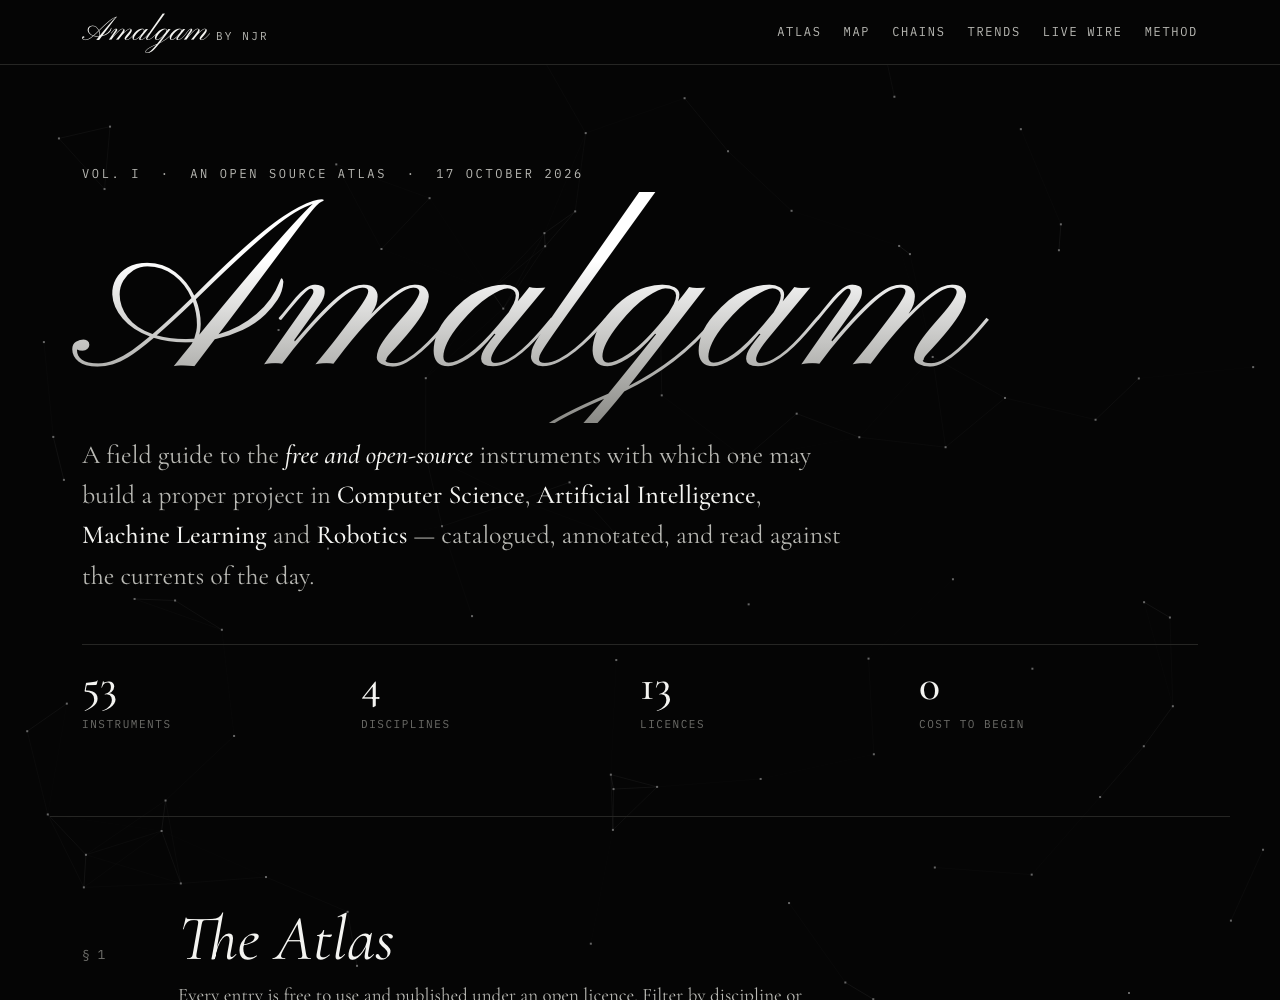
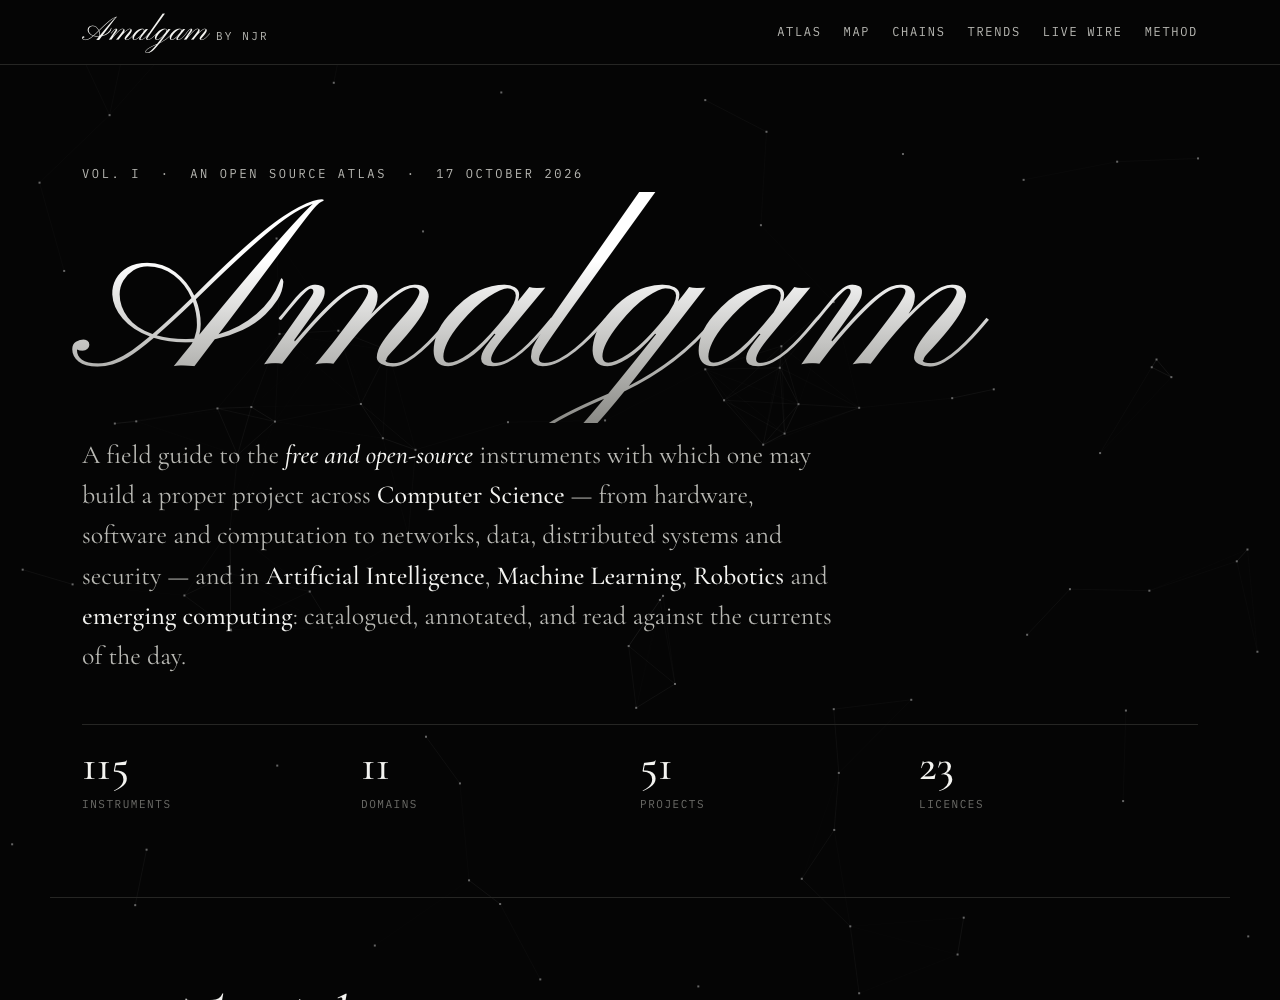
Update README for eleven domains and refresh screenshots

diff --git a/README.md b/README.md
@@ -2,14 +2,15 @@
 
 # Amalgam · by NJR
 
-### An Open Source Atlas for Computer Science, AI, Machine Learning & Robotics
+### An Open Source Atlas across eleven domains of Computer Science
 
 **🔗 Live site → [amalgambynjr.vercel.app](https://amalgambynjr.vercel.app)**
 
 [![Live](https://img.shields.io/badge/live-amalgambynjr.vercel.app-000000?style=flat-square&logo=vercel&logoColor=white)](https://amalgambynjr.vercel.app)
-![Tools](https://img.shields.io/badge/tools-53-000000?style=flat-square)
-![Projects](https://img.shields.io/badge/project%20recipes-20-000000?style=flat-square)
-![Chains](https://img.shields.io/badge/recommendation%20chains-8-000000?style=flat-square)
+![Domains](https://img.shields.io/badge/domains-11-000000?style=flat-square)
+![Tools](https://img.shields.io/badge/tools-115-000000?style=flat-square)
+![Projects](https://img.shields.io/badge/projects-51-000000?style=flat-square)
+![Chains](https://img.shields.io/badge/recommendation%20chains-18-000000?style=flat-square)
 ![Stack](https://img.shields.io/badge/stack-HTML%20·%20CSS%20·%20JS-000000?style=flat-square)
 
 ![Amalgam hero](docs/hero.png)
@@ -20,9 +21,11 @@
 
 ## About
 
-**Amalgam** is a research-style field guide to the **free and open-source tools** you can use to build a proper project in **Computer Science, Artificial Intelligence, Machine Learning and Robotics**, read alongside **current trends and live news**.
+**Amalgam** is a research-style field guide to the **free and open-source tools** you can use to build a proper project across **eleven domains of computer science**, read alongside **current trends and live news**:
 
-A real project is rarely one tool. It is an *amalgam*: ROS 2 braided with MuJoCo and PyTorch, or llama.cpp with LlamaIndex and PostgreSQL. This site catalogues those parts, shows which combinations produce which kinds of projects, and keeps you current with what is happening in the field.
+> Hardware · Software · Computation · Computer Networks · Data & Databases · Distributed Systems · Cybersecurity · Artificial Intelligence · Machine Learning · Robotics · Emerging Computing
+
+A real project is rarely one tool, or one domain. It is an *amalgam*: ROS 2 braided with MuJoCo and PyTorch, or an IoT monitor built from KiCad, Zephyr, MQTT and Grafana across hardware, networks and data. This site catalogues those parts, shows which combinations produce which kinds of projects, and keeps you current with what is happening in the field.
 
 The design is futuristic and monochrome, with black and white throughout and only the tool logos in colour, calligraphic script headings, a classical serif in the style of a research paper, and a drifting constellation that reacts to your cursor.
 
@@ -30,11 +33,11 @@ The design is futuristic and monochrome, with black and white throughout and onl
 
 | Section | What it does |
 |---|---|
-| **§1 The Atlas** | 53 open-source tools across four disciplines, each with its full-colour logo, purpose and licence. Filter by discipline or search by name, purpose or licence (e.g. `simulation`, `LLM`, `MIT`). |
-| **§2 The Amalgam Map** | An interactive **Venn diagram**: AI, ML and Robotics overlap on a Computer Science foundation, with two views. **By project** writes every project name inside its region; **by tool** places all 53 tool logos where they belong. Select a region to see its tools and projects, or a logo to see every project that tool appears in, the role it plays and why it is needed. |
-| **§3 Recommendation Chains** | Step-by-step tool chains for 8 projects (one per Venn region). Every link names the tool, the **role** it plays, **why the project needs it**, and an alternative. Reach a chain from its project in the map via *Follow the chain →*. |
-| **§4 Currents & Trends** | Key movements in the field (agentic AI and MCP, open-weight models, edge inference, vision-language-action robots, sim-to-real) and the tools they relate to. |
-| **§5 The Live Wire** | Headlines on AI, ML, Robotics and Open Source, fetched live from the Hacker News index each time the page loads. |
+| **§1 The Atlas** | 115 open-source tools, each with its full-colour logo, purpose, licence and every domain it serves. Filter by any of the 11 domains or search by name, purpose, domain or licence (e.g. `quantum`, `VPN`, `LLM`, `MIT`). |
+| **§2 The Amalgam Map** | An interactive **Venn diagram of any three domains**, picked by hand or from presets (*AI · ML · Robotics*, *Networks · Distributed · Security*, *Hardware · Software · Computation*…). Each project and tool is tagged with its domains, so it lands in the matching overlap. **By project** writes project names inside each region; **by tool** places tool logos there, with *+N more* when a region is crowded. Select a region to see its tools and projects, or a logo to see every project the tool appears in, the role it plays and why it is needed. |
+| **§3 Recommendation Chains** | Step-by-step tool chains for 18 projects spanning every domain. Every link names the tool, the **role** it plays, **why the project needs it**, and an alternative. Reach a chain from its project in the map via *Follow the chain →*. |
+| **§4 Currents & Trends** | Twelve movements across the field: agentic AI, open-weight models, post-quantum cryptography, open hardware and RISC-V, community forks after licence changes, in-process analytics, OpenTelemetry, quantum error correction and more, each linked to its tools. |
+| **§5 The Live Wire** | Headlines on AI, ML, Robotics, Security, Networking, Databases, Distributed Systems, Hardware, Quantum and Open Source, fetched live from the Hacker News index each time the page loads. |
 | **§6 Method** | How tools were chosen, and a reminder to verify licences before you build. |
 
 | By project | By tool |
@@ -54,18 +57,23 @@ The design is futuristic and monochrome, with black and white throughout and onl
 | 5 | Dispatch | ROS 2 | Robot middleware | Routes the goal to the navigation stack |
 | 6 | Move | Nav2 | Navigation | Drives to the location around obstacles |
 
-### Example recipes from the map
+### Example projects across the domains
 
-| Region | Project | Recipe |
+| Domains | Project | Recipe |
 |---|---|---|
-| AI | Private document assistant | Ollama + LlamaIndex + PostgreSQL + Qwen |
-| ML | Tabular prediction model | pandas + scikit-learn + XGBoost + MLflow |
-| Robotics | Autonomous mobile robot | ROS 2 + Nav2 + Gazebo |
-| AI ∩ ML | Fine-tune an open model | Transformers + PyTorch + OLMo + vLLM |
-| ML ∩ Robotics | Legged locomotion via RL | MuJoCo + JAX + Ray |
-| AI ∩ Robotics | Voice-commanded robot | Whisper + Ollama + ROS 2 + Nav2 |
+| Hardware ∩ Computation | Design and simulate a RISC-V core | Git + Verilator + Yosys + OpenROAD |
+| Hardware ∩ Networks ∩ Data | IoT environmental monitor | KiCad + Zephyr + PlatformIO + Mosquitto + PostgreSQL + Grafana |
+| Software ∩ Data ∩ Networks | Full-stack web app | TypeScript + React + Node.js + PostgreSQL + Caddy + Docker |
+| Computation ∩ Software | Formally verified algorithm | Lean 4 + Z3 + Rust |
+| Networks ∩ Computation | Network lab on a laptop | Mininet + Wireshark + ns-3 |
+| Data ∩ Distributed | Real-time analytics pipeline | Kafka + Spark + ClickHouse + Airflow + Grafana |
+| Distributed ∩ Networks ∩ Software | Observable microservices | Go + gRPC + Envoy + Kubernetes + OpenTelemetry + Prometheus + Grafana |
+| Security ∩ Networks | Home network intrusion detection | Linux + Zeek + Suricata + Wazuh + Grafana |
+| Security ∩ Software ∩ Distributed | Secure CI/CD pipeline | Git + Semgrep + Docker + Trivy + OpenBao |
+| AI ∩ Data | Private document assistant | Ollama + LlamaIndex + PostgreSQL + Qwen |
 | AI ∩ ML ∩ Robotics | Vision-language-action robot | LeRobot + PyTorch + Transformers + MuJoCo + ROS 2 |
-| Computer Science | Self-hosted deployment platform | Docker + Kubernetes + Grafana + Linux |
+| Emerging ∩ Computation | Quantum algorithms playground | Jupyter + Qiskit + Cirq + QuTiP |
+| Emerging ∩ ML ∩ Robotics | Spiking-network robot controller | snnTorch + Lava + ROS 2 + Gazebo |
 
 ## Tech stack
 
@@ -83,7 +91,7 @@ Plain **HTML, CSS and vanilla JavaScript**, with no framework and no build step.
 ```
 ├── index.html   # Page structure and sections
 ├── styles.css   # Monochrome, research-style design
-├── data.js      # Tools, Venn map recipes, chains, trends, news topics (edit content here)
+├── data.js      # Domains, tools, projects, chains, trends, map presets, news topics (edit content here)
 ├── app.js       # Atlas filtering, Venn map, chains, live wire, background animation
 ├── logos/       # Self-hosted tool logos
 └── docs/        # README screenshots
@@ -102,10 +110,12 @@ python3 -m http.server 8000
 
 All content lives in **`data.js`**.
 
-- **Add a tool:** append to `tools` with `d` (`cs` | `ai` | `ml` | `robotics`), `name`, `kind`, `license`, `url` and `desc`.
-- **Add a project recipe:** add to the matching region in `map`. Tool names must exactly match a tool's `name` in the Atlas.
-- **Add a chain:** append to `chains` with `project` (matching a map project), `region`, `level`, `goal` and ordered `steps` of `{ stage, tool, role, why, alt? }`.
-- **Logos:** put the file in `logos/` and set the tool's `logo` path. Logos are shown in full colour on light tiles. To place a tool on the Venn map, add its name to a region's `home` list in `map`.
+- **Domains:** `hardware`, `software`, `computation`, `networks`, `data`, `distributed`, `security`, `ai`, `ml`, `robotics`, `emerging`.
+- **Add a tool:** append to `tools` with `domains` (primary first, then any others it serves), `name`, `logo`, `kind`, `license`, `url` and `desc`. Set `foundation: true` for tools every project relies on; they sit on the map's ground when none of their domains is chosen.
+- **Add a project:** append to `projects` with `name`, a `short` label for the map, its `domains`, `desc` and `tools`. Tool names must exactly match a tool's `name`. The map places it automatically.
+- **Add a chain:** append to `chains` with `project` (matching a project name), `level`, `goal` and ordered `steps` of `{ stage, tool, role, why, alt? }`.
+- **Add a map preset:** append `{ name, domains: [three ids] }` to `venn.presets`.
+- **Logos:** put the file in `logos/` and set the tool's `logo` path. Logos are shown in full colour on light tiles; tools without one get a lettered tile.
 - Only include tools that are **free to use** and published under an **open licence**.
 
 ## Deploy
